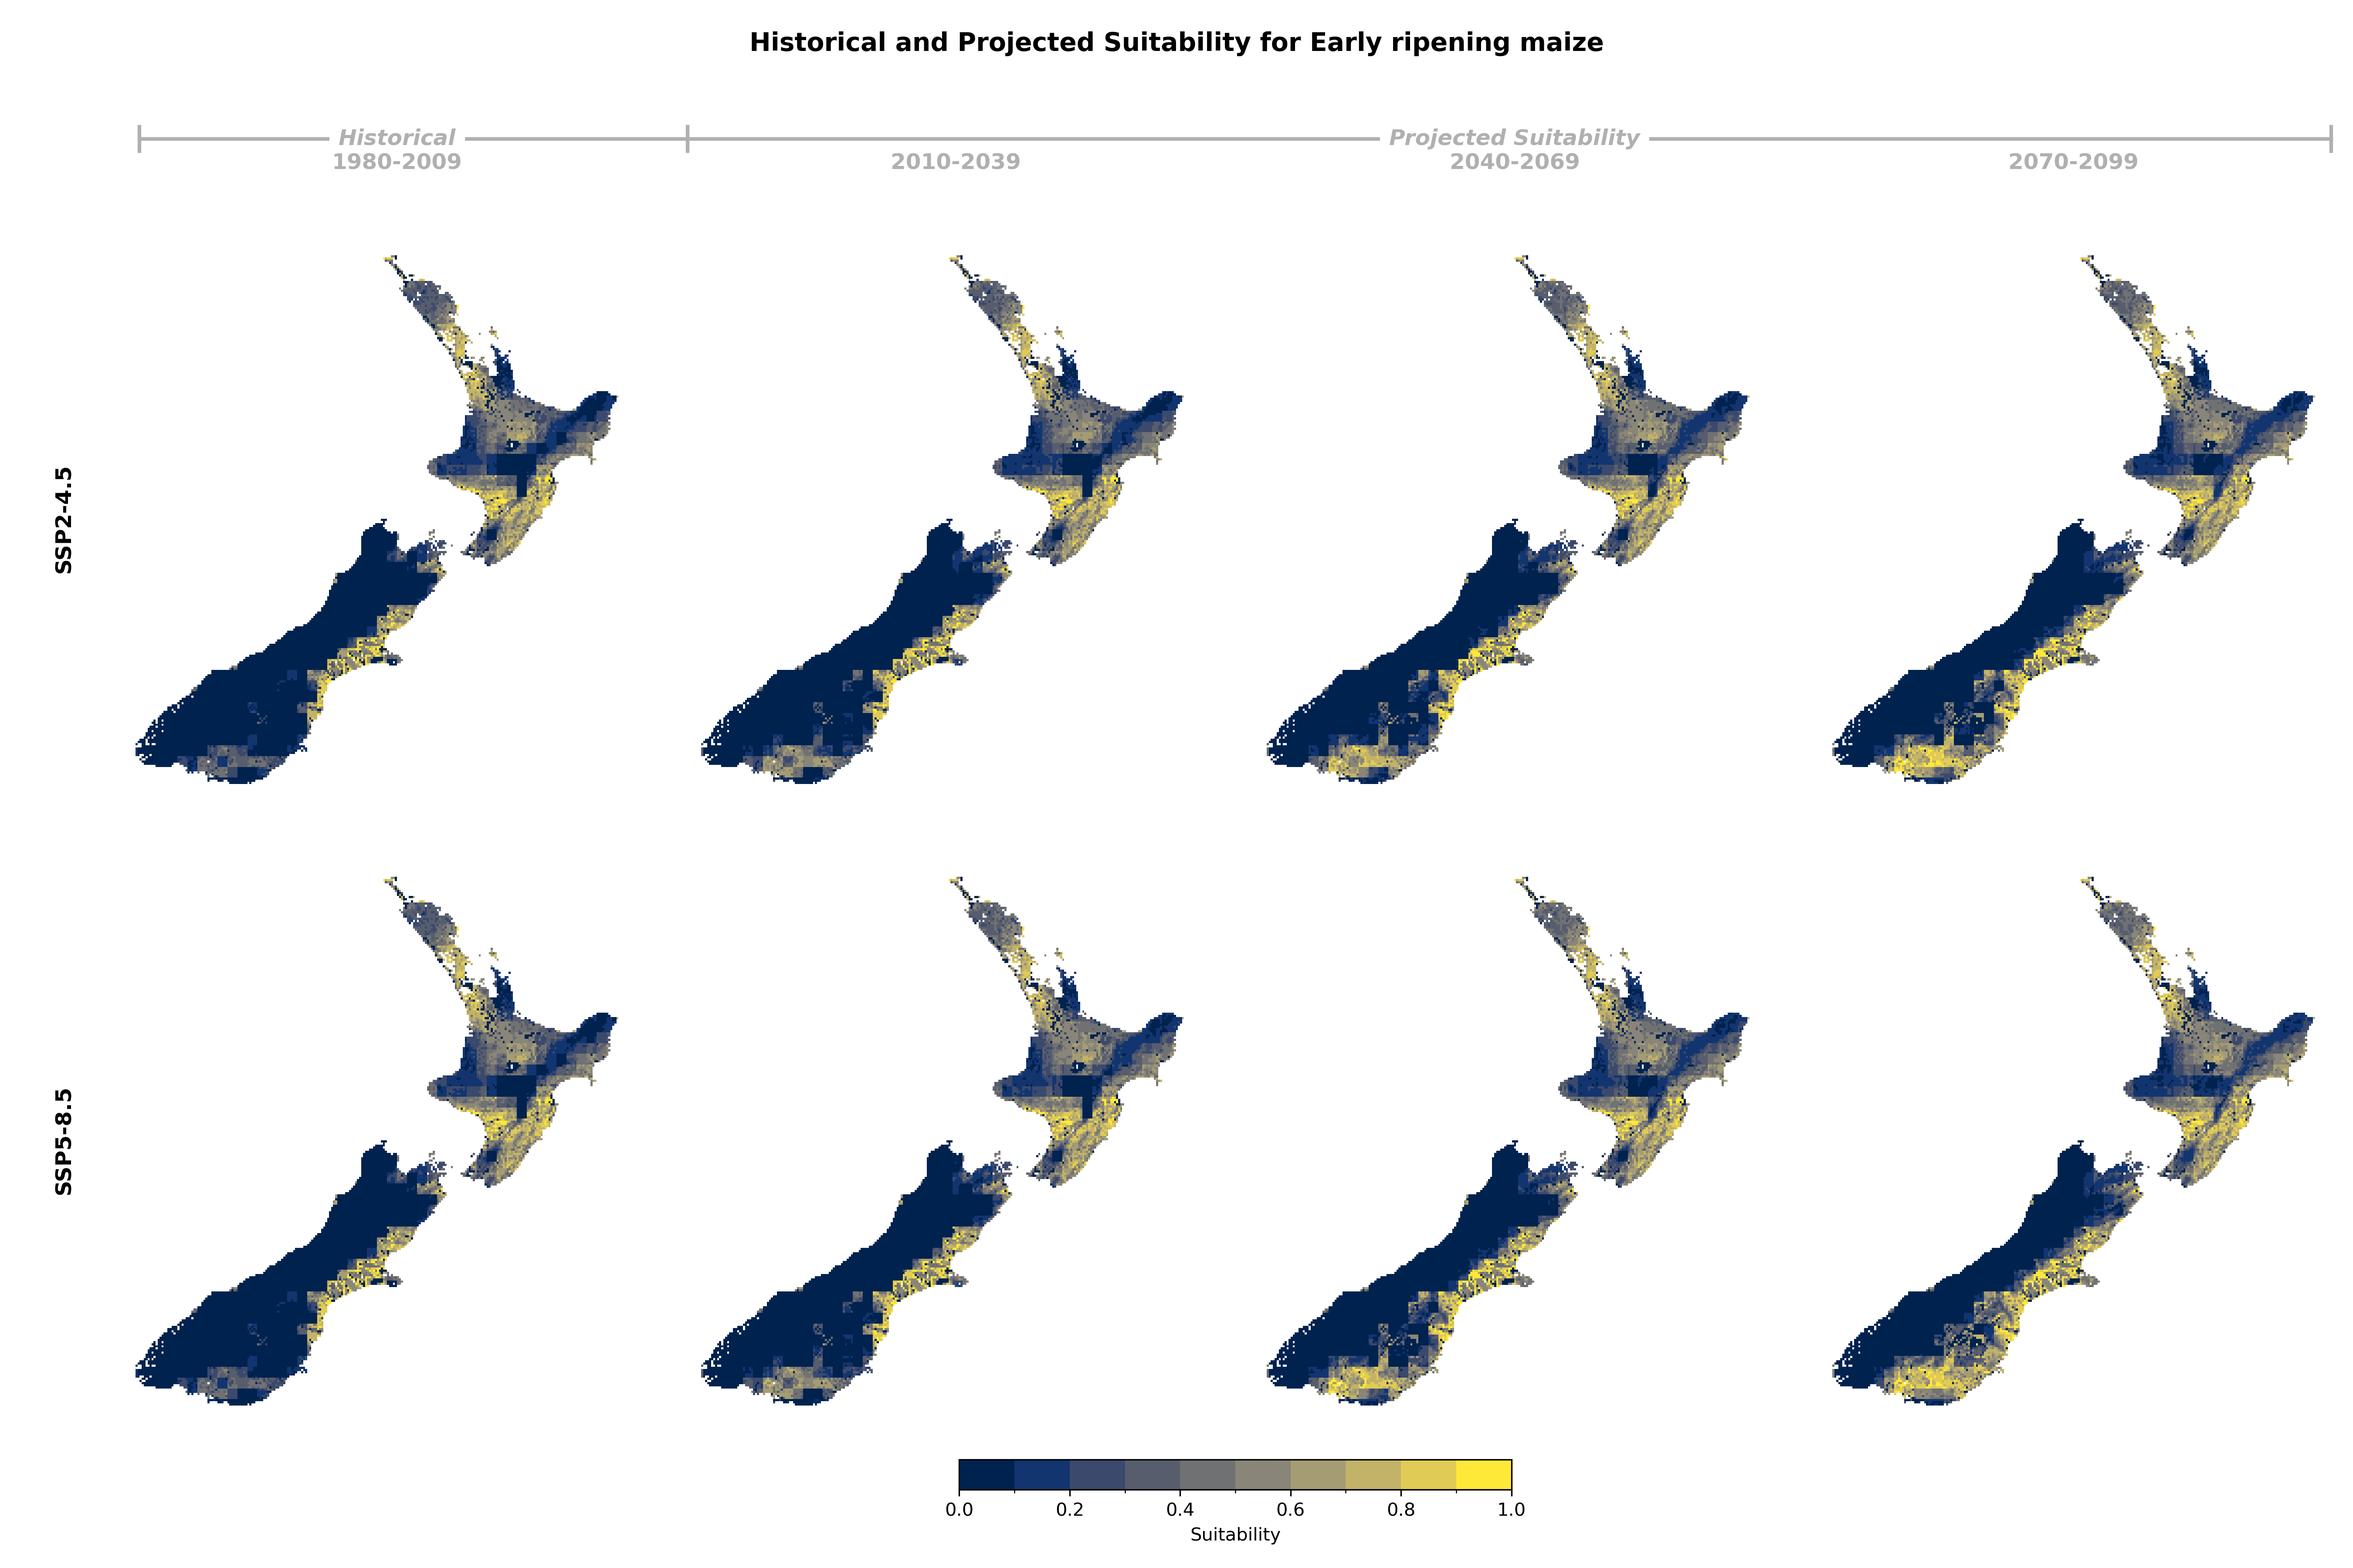
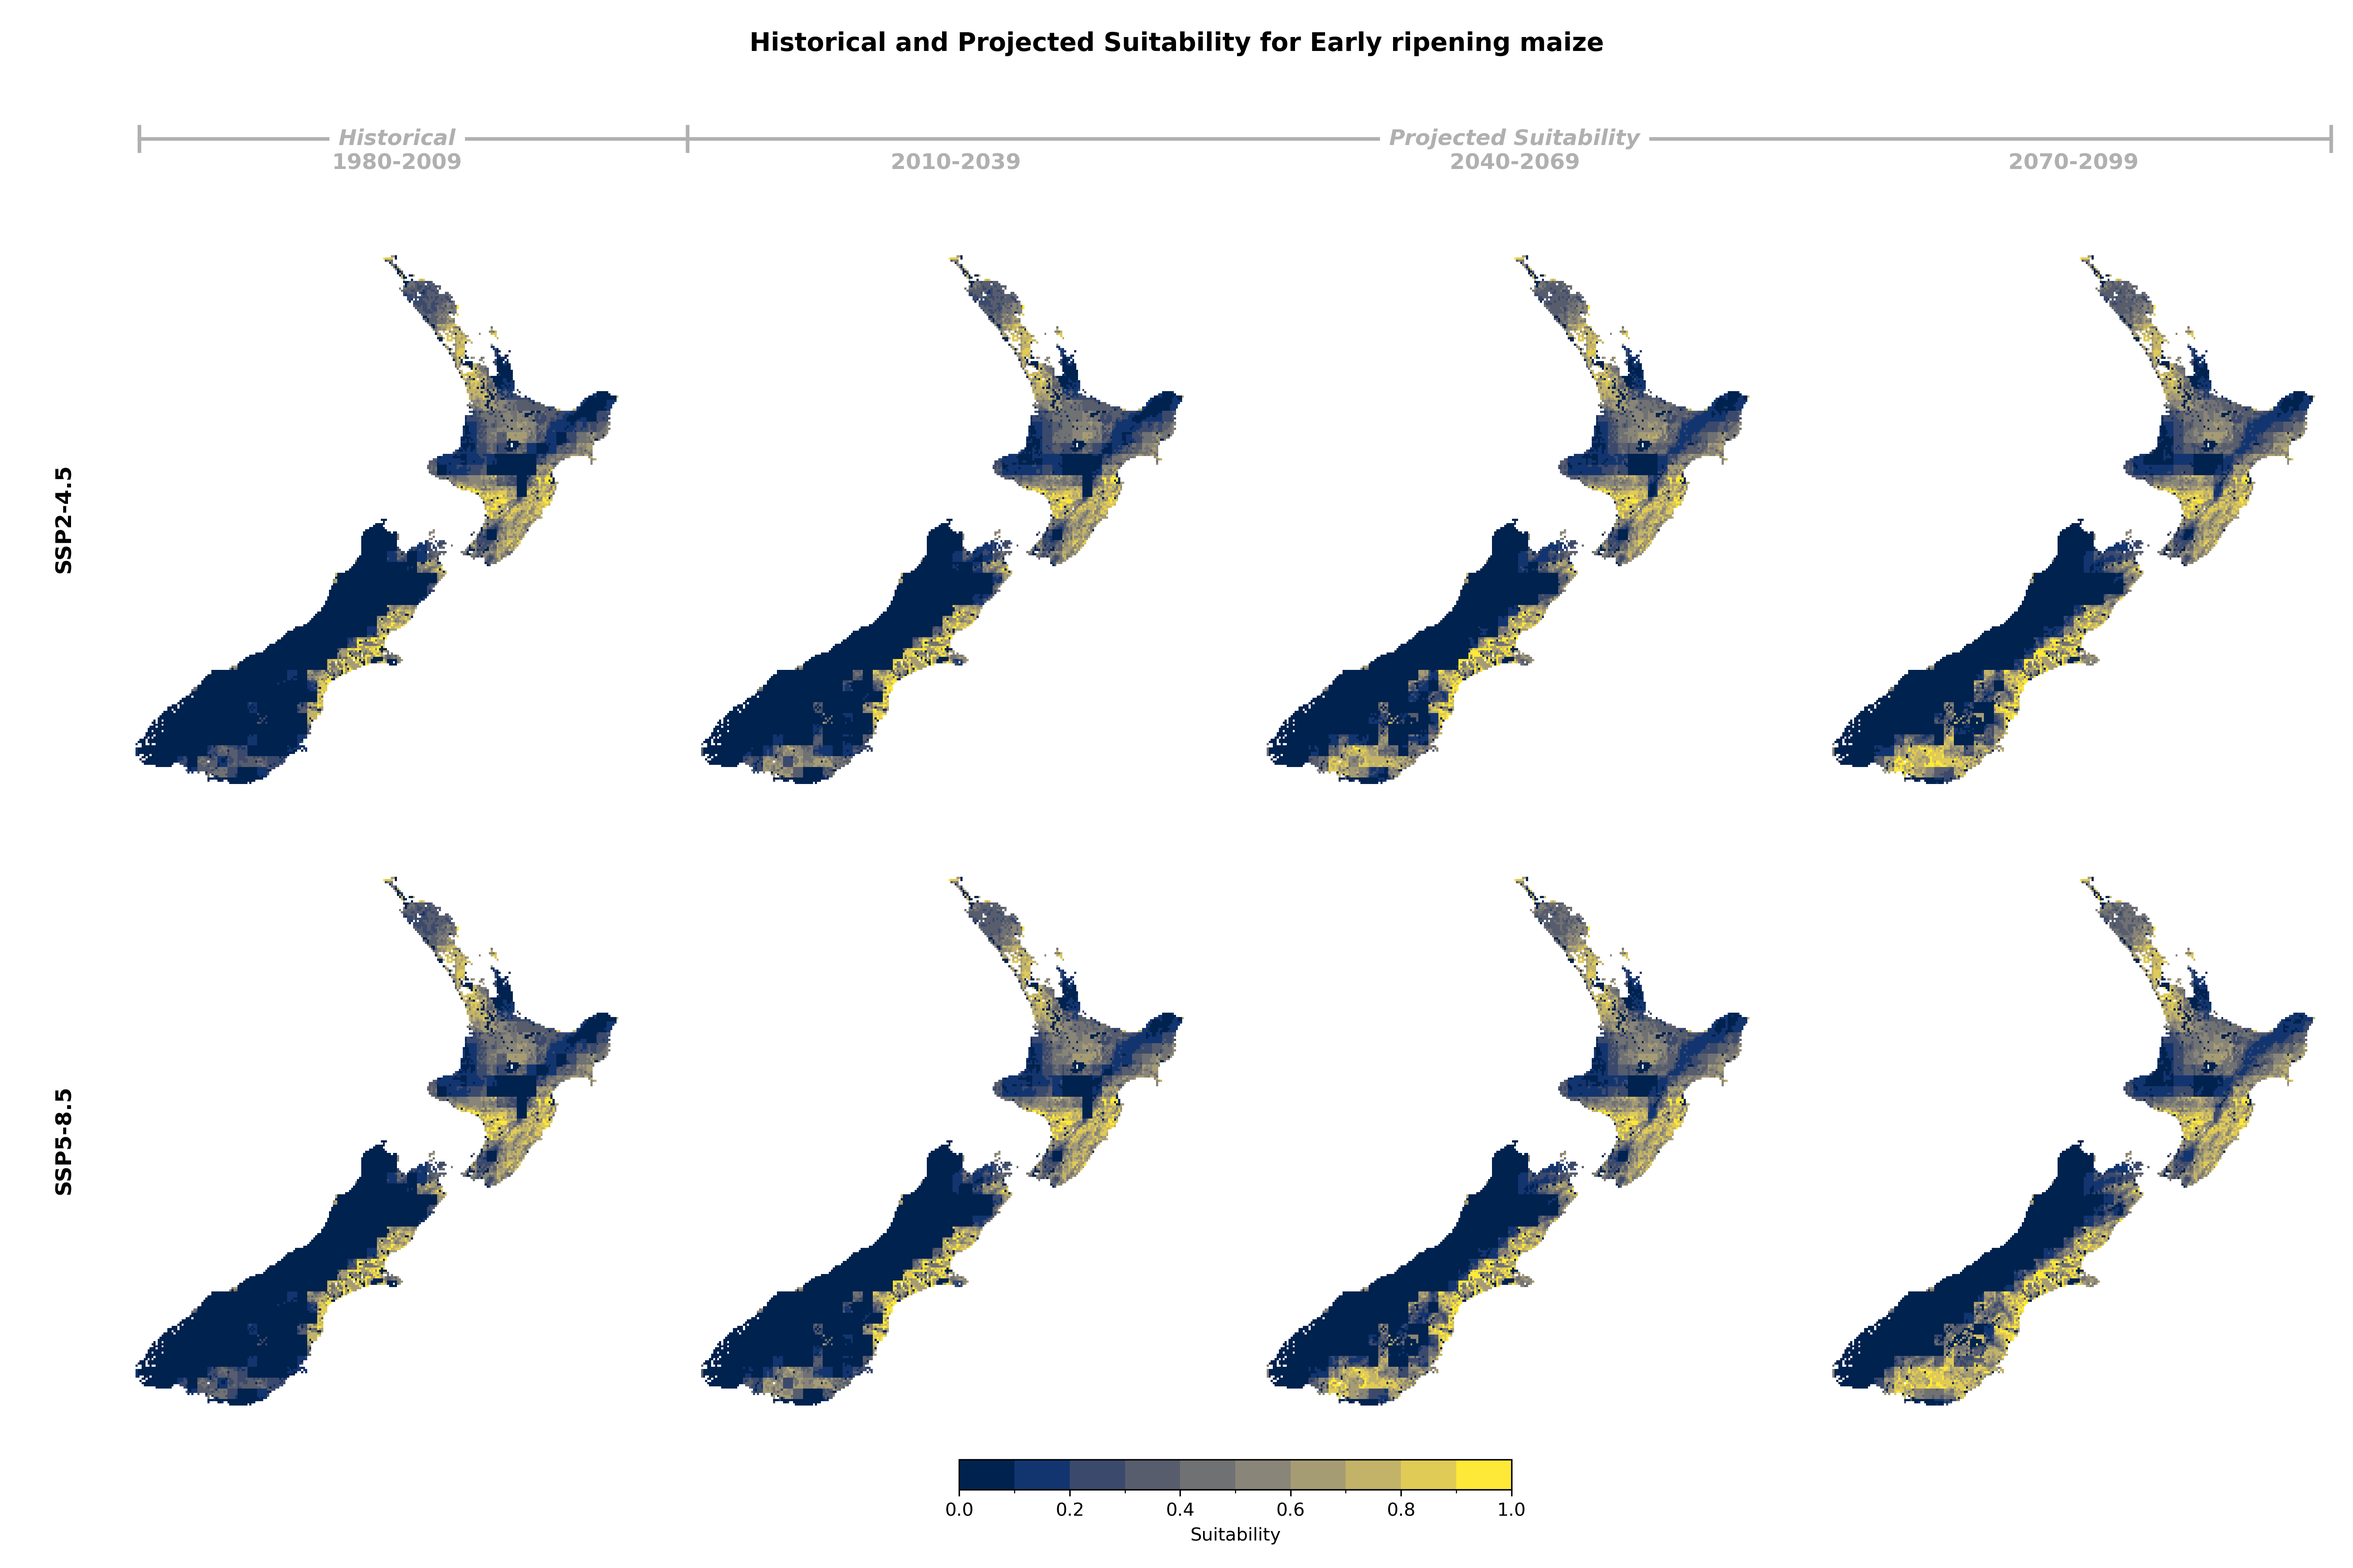
Add Early Maize 1km suitability

diff --git a/docs/landuses/maizeearly.md b/docs/landuses/maizeearly.md
@@ -8,11 +8,11 @@ title: Early ripening maize
 
 ### Suitability Values
 
-![](../_static/summary_figs/maizeearly_suitability_SSP245-SSP585_5km_v1.0.png)
+![](../_static/summary_figs/maizeearly_suitability_SSP245-SSP585_1km_v1.0.png)
 
 ### Suitability Changes
 
-![](../_static/summary_figs/maizeearly_suitability_change_SSP245-SSP585_5km_v1.0.png)
+![](../_static/summary_figs/maizeearly_suitability_change_SSP245-SSP585_1km_v1.0.png)
 
 :::
 
